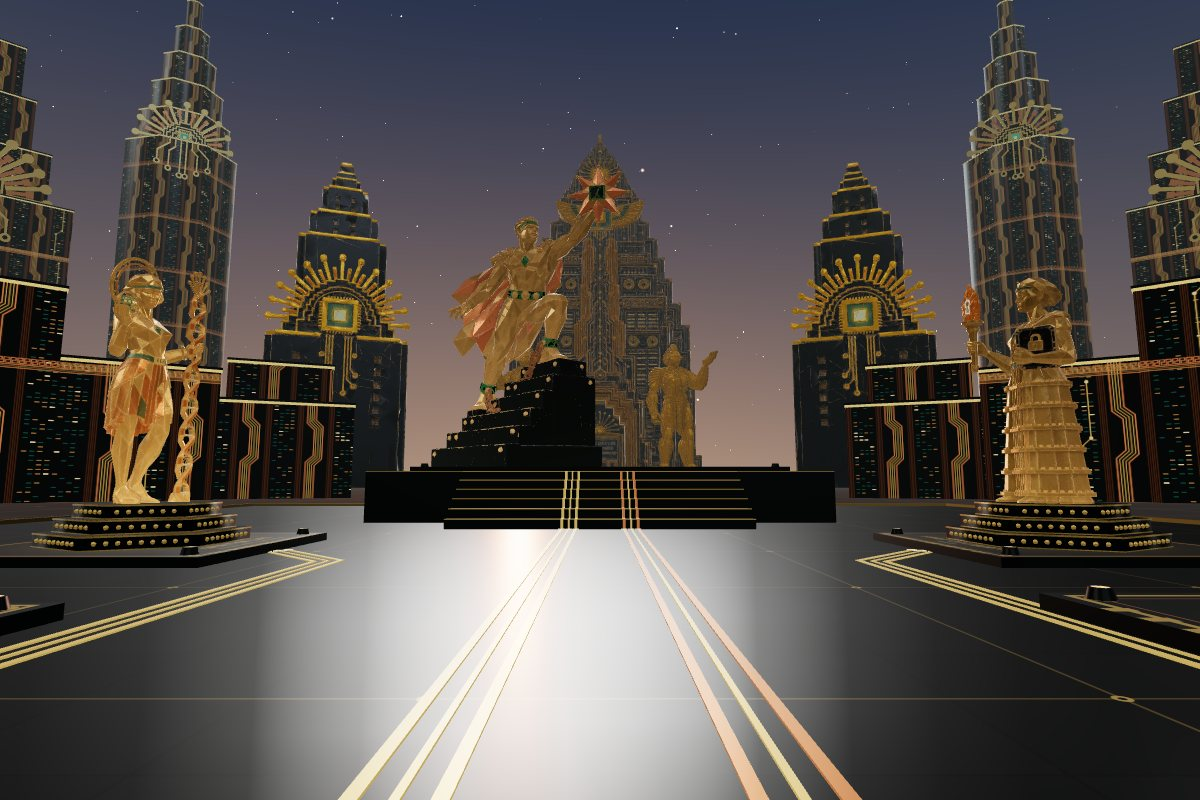
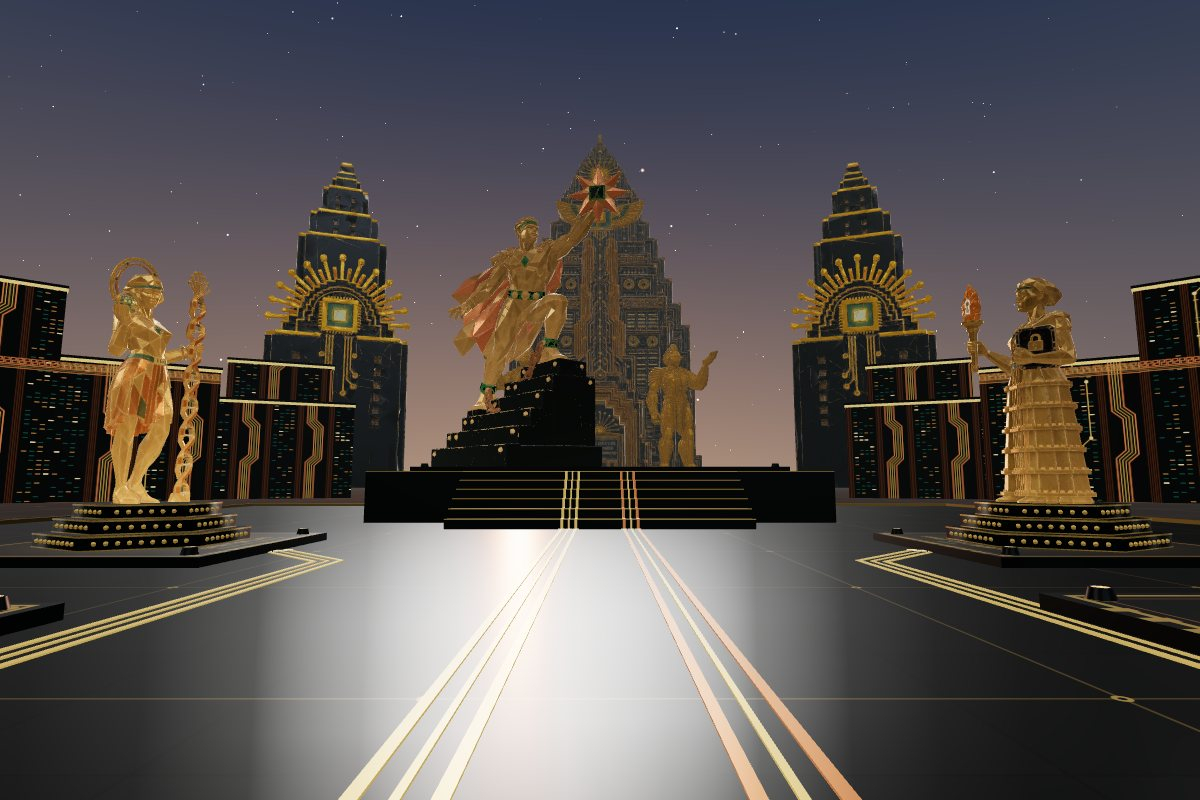
feat(city): open the skyline round the Core
Two ring places are left empty (RING_GAPS): the tall needles just outside
the Sun Towers, which the far-end height bonus made the tallest towers in
the ring, and the slab that crowded in behind them. Their random draws are
still taken, so every other tower keeps its place. From the processor the
Core and the two Sun Towers now stand clear against the sky. The two views
in the design record are reshot.

Changed region(s): [[0.8017, 0.0, 1.0, 0.4688], [0.0925, 0.0, 0.2158, 0.4688], [0.0, 0.0312, 0.0617, 0.375]]

diff --git a/web/src/scene/Plaza.tsx b/web/src/scene/Plaza.tsx
@@ -592,6 +592,9 @@ function towerGeometry(t: Tower): Parts {
  * the data halls, the low blocks and the great tower behind Ad Astra. Shared with
  * the aerial craft, which plan their flights to clear them.
  */
+/** Ring places left empty, by index in cityTowers()'s ring loop. */
+const RING_GAPS = new Set([11, 12]);
+
 export function cityTowers(): Tower[] {
   const towers: Tower[] = [];
   let r = 11;
@@ -610,6 +613,9 @@ export function cityTowers(): Tower[] {
     // The pair nearest the Core are the Sun Towers (landmarks.ts), sized to the model: 0.38 of
     // its height wide, rays included, and 0.35 deep.
     if (i === SUN_TOWER.ring) Object.assign(t, { w: SUN_TOWER.height * 0.38, d: SUN_TOWER.height * 0.35, h: SUN_TOWER.height, modelled: true, landmark: "sun" });
+    // Left out to open the skyline (their random draws still taken, so no other tower moves):
+    // the tall needles just outside the Sun Towers, and the slab that crowded in behind them.
+    if (RING_GAPS.has(i)) continue;
     mirror(t);
   }
   // Data halls between the rings.

diff --git a/docs/README.md b/docs/README.md
@@ -64,7 +64,7 @@ The style's first public square, a walk-through plaza that runs in the browser:
   the towers.
 - **Scale.** A plain 1.75 m figure can be stood beside every statue, to judge the size by.
 
-![The Gilded Circuit at dusk from the processor dais: the green dais in the foreground, Spirits either side, Ad Astra on his terrace holding his star up to the Core's winged chip, the two Sun Towers framing the Core, every tower in the ring wearing a boot-sun crown](designs/the-gilded-circuit-processor.jpg)
+![The Gilded Circuit at dusk from the processor dais: the green dais in the foreground, Spirits either side, Ad Astra on his terrace holding his star up to the Core's winged chip, the two Sun Towers framing the Core, low data halls between them](designs/the-gilded-circuit-processor.jpg)
 
 ## The Spirits
 

diff --git a/CHANGELOG.md b/CHANGELOG.md
@@ -51,6 +51,10 @@ and this project adheres to [Semantic Versioning](https://semver.org/spec/v2.0.0
 
 ### Changed
 
+- **A more open skyline.** The tall needles just outside the Sun Towers and
+  the slab behind them are left out of the ring, so from the processor the
+  Core and the two Sun Towers stand clear against the sky. The other towers
+  keep their places.
 - **The hero heads the README** in place of the text title, which only
   repeated the wordmark; the image's alt text still names the project. The
   DOI badge moves from the top to the Citation section.
